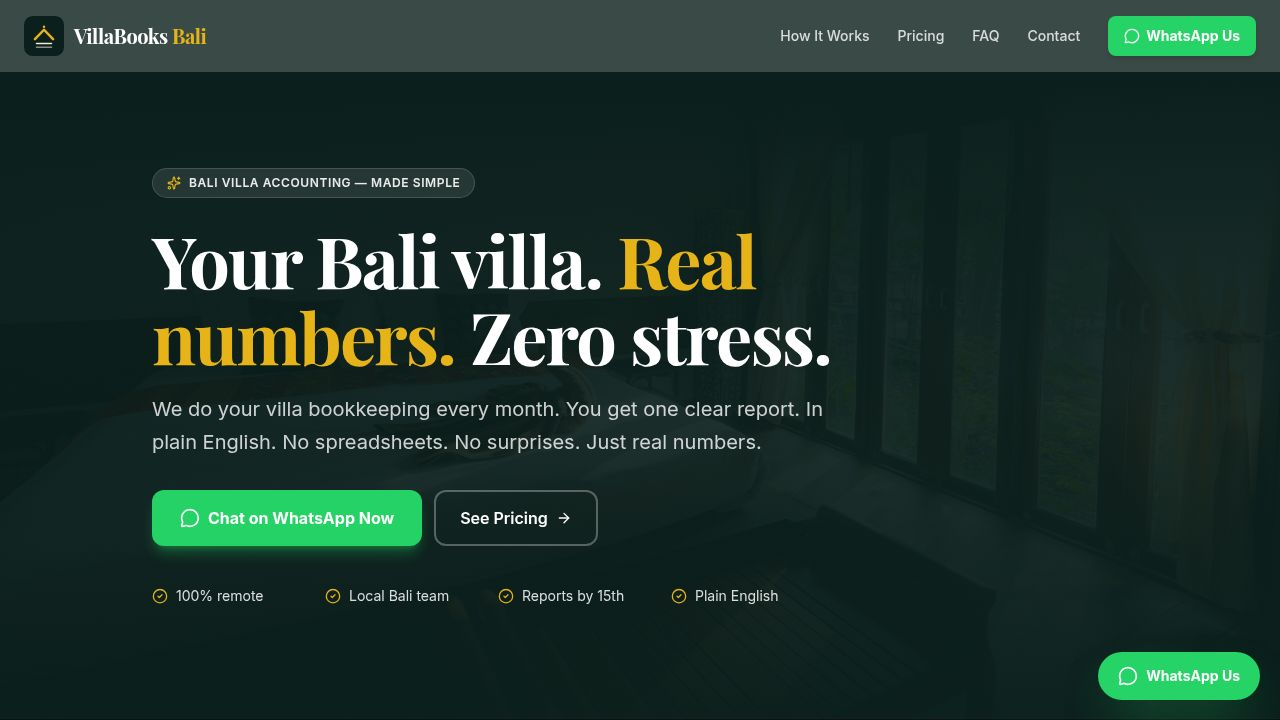
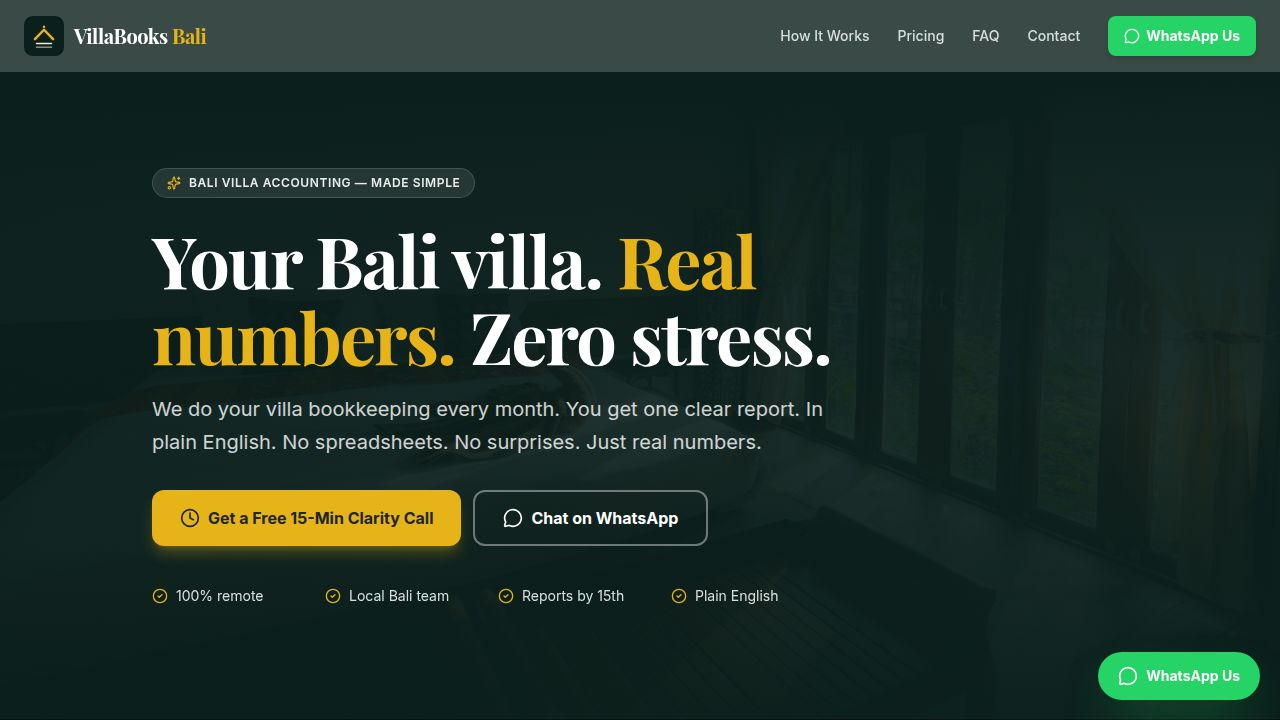
Add Calendly booking integration for free clarity call CTAs
Task: Add a working booking link so visitors can schedule their free clarity call

## What was done
- Added Calendly's popup widget CSS and JS to `artifacts/villabooks-bali/index.html`
- Added a `CALENDLY_URL` constant in `Home.tsx` pointing to the scheduling link placeholder
  (`https://calendly.com/villabooksbali/clarity-call`) — easy to swap for the real URL
- Added a TypeScript global declaration for `window.Calendly` to avoid type errors
- Added `openCalendly()` helper that opens the Calendly popup widget, with a fallback to
  `window.open()` if the widget JS hasn't loaded
- Added a new `BookCallButton` component (reusable, brand-colored gold/amber) using the Clock icon
- **Hero section**: replaced the "Chat on WhatsApp Now" + "See Pricing" pair with a primary
  "Get a Free 15-Min Clarity Call" (BookCallButton) and a secondary "Chat on WhatsApp" (outline)
- **Final CTA section**: updated heading copy to "Ready to see your real numbers?", updated
  body copy to emphasize the clarity call, and added BookCallButton as primary CTA alongside
  the WhatsApp outline button

## Deviations / Notes
- The Calendly URL is a placeholder — Abel needs to create a Calendly account and update the
  constant in Home.tsx (task #5 tracks this)
- E2e test confirmed the Calendly popup widget fires correctly on button click; the 404 inside
  the popup is expected since the placeholder URL doesn't exist yet
[…]

diff --git a/artifacts/villabooks-bali/src/pages/Home.tsx b/artifacts/villabooks-bali/src/pages/Home.tsx
@@ -3,7 +3,6 @@ import { motion, useReducedMotion } from "framer-motion";
 import {
   CheckCircle2,
   MessageCircle,
-  ArrowRight,
   Star,
   Clock,
   ShieldCheck,
@@ -26,6 +25,24 @@ import {
 const WA = "https://wa.me/6281237402292";
 const wa = (msg: string) =>
   `${WA}?text=${encodeURIComponent(msg)}`;
+
+const CALENDLY_URL = "https://calendly.com/villabooksbali/clarity-call";
+
+declare global {
+  interface Window {
+    Calendly?: {
+      initPopupWidget: (opts: { url: string }) => void;
+    };
+  }
+}
+
+function openCalendly() {
+  if (window.Calendly) {
+    window.Calendly.initPopupWidget({ url: CALENDLY_URL });
+  } else {
+    window.open(CALENDLY_URL, "_blank", "noopener,noreferrer");
+  }
+}
 
 /* ---------- Reusable WhatsApp button ---------- */
 function WAButton({
@@ -62,6 +79,43 @@ function WAButton({
       <MessageCircle className={size === "lg" ? "w-5 h-5" : "w-4 h-4"} />
       {label}
     </a>
+  );
+}
+
+/* ---------- Calendly / Book a Call button ---------- */
+function BookCallButton({
+  label = "Get a Free 15-Min Clarity Call",
+  size = "lg",
+  variant = "primary",
+  className = "",
+}: {
+  label?: string;
+  size?: "lg" | "md";
+  variant?: "primary" | "outline" | "outline-dark";
+  className?: string;
+}) {
+  const base =
+    "inline-flex items-center justify-center gap-2 rounded-xl font-bold shadow-lg transition-all active:scale-[0.97] cursor-pointer";
+  const sizes =
+    size === "lg"
+      ? "h-14 px-7 text-base w-full sm:w-auto"
+      : "h-12 px-5 text-sm w-full sm:w-auto";
+  const styles =
+    variant === "outline"
+      ? "border-2 border-white/40 text-white hover:bg-white/10 shadow-none"
+      : variant === "outline-dark"
+      ? "border-2 border-primary/40 text-primary hover:bg-primary/5 shadow-none"
+      : "bg-secondary hover:bg-secondary/90 text-secondary-foreground shadow-secondary/30 hover:shadow-xl hover:shadow-secondary/40";
+
+  return (
+    <button
+      type="button"
+      onClick={openCalendly}
+      className={`${base} ${sizes} ${styles} ${className}`}
+    >
+      <Clock className={size === "lg" ? "w-5 h-5" : "w-4 h-4"} />
+      {label}
+    </button>
   );
 }
 
@@ -175,17 +229,8 @@ export default function Home() {
 
           <FadeUp delay={0.18}>
             <div className="mt-8 flex flex-col sm:flex-row gap-3 sm:items-center">
-              <WAButton label="Chat on WhatsApp Now" />
-              <a
-                href="#pricing"
-                onClick={(e) => {
-                  e.preventDefault();
-                  document.querySelector("#pricing")?.scrollIntoView({ behavior: "smooth" });
-                }}
-                className="inline-flex items-center justify-center h-14 px-6 rounded-xl border-2 border-white/30 text-white font-semibold text-base hover:bg-white/10 transition-colors w-full sm:w-auto"
-              >
-                See Pricing <ArrowRight className="w-4 h-4 ml-2" />
-              </a>
+              <BookCallButton label="Get a Free 15-Min Clarity Call" />
+              <WAButton label="Chat on WhatsApp" variant="outline" />
             </div>
           </FadeUp>
 
@@ -574,18 +619,19 @@ export default function Home() {
           <FadeUp>
             <p className="text-xs font-bold uppercase tracking-widest text-secondary mb-3">Let's talk</p>
             <h2 className="text-3xl sm:text-5xl md:text-6xl font-serif font-bold tracking-tight leading-[1.1] mb-5">
-              One message.<br/>
-              <span className="text-secondary">Real answers today.</span>
+              Ready to see your<br/>
+              <span className="text-secondary">real numbers?</span>
             </h2>
             <p className="text-base sm:text-lg text-white/80 mb-10 max-w-xl mx-auto">
-              Send Abel a WhatsApp. Real human reply, usually within an hour.
-              No sales call. No pressure. Just real talk about your villa.
+              Book a free 15-minute clarity call and we'll walk through your villa's finances together.
+              No pressure. No jargon. Just honest answers.
             </p>
           </FadeUp>
 
           <FadeUp delay={0.1}>
             <div className="flex flex-col sm:flex-row gap-3 justify-center mb-12">
-              <WAButton label="Chat on WhatsApp Now" />
+              <BookCallButton label="Book a Free 15-Min Clarity Call" />
+              <WAButton label="Chat on WhatsApp" variant="outline" />
             </div>
           </FadeUp>
 

diff --git a/artifacts/villabooks-bali/index.html b/artifacts/villabooks-bali/index.html
@@ -24,6 +24,10 @@
     <link rel="preconnect" href="https://fonts.googleapis.com">
     <link rel="preconnect" href="https://fonts.gstatic.com" crossorigin>
     <link href="https://fonts.googleapis.com/css2?family=Inter:wght@400;500;600;700&display=swap" rel="stylesheet">
+
+    <!-- Calendly widget -->
+    <link href="https://assets.calendly.com/assets/external/widget.css" rel="stylesheet">
+    <script src="https://assets.calendly.com/assets/external/widget.js" type="text/javascript" async></script>
   </head>
   <body>
     <div id="root"></div>
